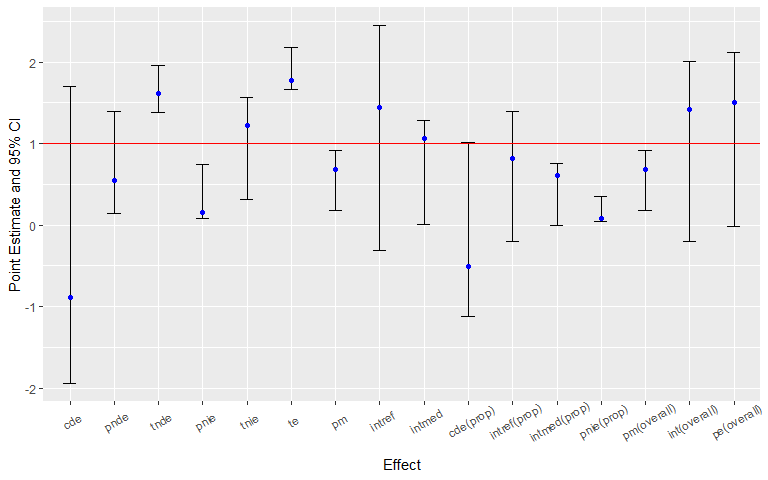
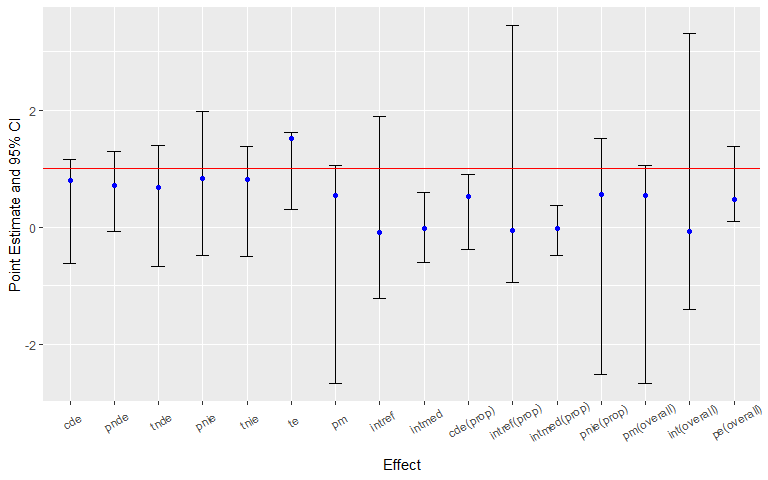
update readme

diff --git a/README.md b/README.md
@@ -1,6 +1,6 @@
 <!-- README.md is generated from README.Rmd. Please edit that file -->
 
-CMAverse <img src="man/figures/logo.png" align="right" width="250" />
+CMAverse <img src="man/figures/logo.png" align="right" width="240" />
 =====================================================================
 
 [![Project Status:
@@ -396,23 +396,23 @@ Summarizing and plotting the results:
     ## Direct counterfactual imputation estimation with 
     ##  bootstrap standard errors, percentile confidence intervals and p-values 
     ##  
-    ##               Estimate Std.error   95% CIL 95% CIU  P.val    
-    ## cde          -0.892591  1.607350 -1.945221   1.697    0.4    
-    ## pnde          0.551437  0.495887  0.142822   1.395 <2e-16 ***
-    ## tnde          1.620366  0.263352  1.386278   1.958 <2e-16 ***
-    ## pnie          0.150942  0.279030  0.084918   0.748 <2e-16 ***
-    ## tnie          1.219870  0.528054  0.313292   1.567 <2e-16 ***
-    ## te            1.771307  0.240348  1.669482   2.174 <2e-16 ***
-    ## pm            0.688683  0.294830  0.174001   0.916 <2e-16 ***
-    ## intref        1.444028  1.193608 -0.311642   2.453    0.4    
-    ## intmed        1.068928  0.543794  0.005043   1.287    0.4    
-    ## cde(prop)    -0.503916  0.940940 -1.120675   1.020    0.4    
-    ## intref(prop)  0.815233  0.681272 -0.200281   1.399    0.4    
-    ## intmed(prop)  0.603469  0.314785 -0.005313   0.756    0.4    
-    ## pnie(prop)    0.085215  0.122840  0.042617   0.346 <2e-16 ***
-    ## pm(overall)   0.688683  0.294830  0.174001   0.916 <2e-16 ***
-    ## int(overall)  1.418702  0.983347 -0.205595   2.002    0.4    
-    ## pe(overall)   1.503916  0.940940 -0.019546   2.121    0.4    
+    ##              Estimate Std.error  95% CIL 95% CIU  P.val    
+    ## cde           0.80413   0.73382 -0.61785   1.157    0.8    
+    ## pnde          0.70722   0.53793 -0.06784   1.287    0.4    
+    ## tnde          0.68375   0.88304 -0.67250   1.394    0.4    
+    ## pnie          0.83501   0.98491 -0.48191   1.973    0.4    
+    ## tnie          0.81154   0.78414 -0.50561   1.373    0.4    
+    ## te            1.51877   0.58754  0.30834   1.623 <2e-16 ***
+    ## pm            0.53434   1.66066 -2.67577   1.052    0.4    
+    ## intref       -0.09691   1.24283 -1.22533   1.889    0.4    
+    ## intmed       -0.02347   0.46997 -0.61097   0.591    0.8    
+    ## cde(prop)     0.52946   0.53487 -0.38092   0.904    0.8    
+    ## intref(prop) -0.06381   1.76493 -0.94241   3.451    0.4    
+    ## intmed(prop) -0.01545   0.33551 -0.48422   0.364    0.8    
+    ## pnie(prop)    0.54980   1.66595 -2.52756   1.517    0.4    
+    ## pm(overall)   0.53434   1.66066 -2.67577   1.052    0.4    
+    ## int(overall) -0.07926   1.85618 -1.40745   3.303    0.4    
+    ## pe(overall)   0.47054   0.53487  0.09615   1.381 <2e-16 ***
     ## ---
     ## Signif. codes:  0 '***' 0.001 '**' 0.01 '*' 0.05 '.' 0.1 ' ' 1
 
@@ -429,13 +429,13 @@ analysis for unmeasured confounding:
     ## Sensitivity Analysis For Unmeasured Confounding 
     ## 
     ## Evalues on the ratio scale: 
-    ##          estRR   lowerRR  upperRR Evalue.estRR Evalue.lowerRR Evalue.upperRR
-    ## cde  0.6938471 0.1914846 2.514164     2.238693             NA              1
-    ## pnde 1.2533325 0.8424961 1.864510     1.816813       1.000000             NA
-    ## tnde 1.9416096 1.5723628 2.397569     3.293733       2.521026             NA
-    ## pnie 1.0637586 0.8507071 1.330167     1.324188       1.000000             NA
-    ## tnie 1.6479298 1.0795697 2.515514     2.681246       1.372659             NA
-    ## te   2.0654039 1.7037187 2.503872     3.548809       2.798679             NA
+    ##         estRR   lowerRR  upperRR Evalue.estRR Evalue.lowerRR Evalue.upperRR
+    ## cde  1.422249 0.7584218 2.667106     2.197196       1.000000             NA
+    ## pnde 1.363138 0.8597480 2.161266     2.066705       1.000000             NA
+    ## tnde 1.349196 0.6331210 2.875167     2.035587       1.000000             NA
+    ## pnie 1.441618 0.6199463 3.352329     2.239519       1.000000             NA
+    ## tnie 1.426874 0.7287807 2.793664     2.207319       1.000000             NA
+    ## te   1.945025 1.1756942 3.217778     3.300790       1.630186             NA
 
 Assume that the continuous pre-exposure confounder was measured with
 error. Sensitivity analysis using regression calibration with a set of
@@ -457,22 +457,22 @@ Summarizing and plotting the results:
     ## 0.1
     ## Measurement error correction for measurement error 1: 
     ##              Estimate Std.error  95% CIL 95% CIU  P.val    
-    ## cde          -0.89920   1.49756 -2.03146   1.510    0.4    
-    ## pnde          0.86165   0.97681 -0.14416   2.273    0.4    
-    ## tnde          1.57740   0.79880  0.41354   2.422 <2e-16 ***
-    ## pnie          0.40305   0.59068 -0.44561   0.983    0.4    
-    ## tnie          1.11880   0.87595 -0.31990   1.920    0.4    
-    ## te            1.98045   0.24452  1.39639   1.976 <2e-16 ***
-    ## pm            0.56492   0.48856 -0.15532   1.073    0.4    
-    ## intref        1.76085   0.91436 -0.16929   1.954    0.8    
-    ## intmed        0.71575   0.61911 -0.06062   1.336    0.8    
-    ## cde(prop)    -0.45404   0.82159 -1.11545   0.772    0.4    
-    ## intref(prop)  0.88911   0.50485 -0.10211   1.070    0.8    
-    ## intmed(prop)  0.36141   0.34085 -0.03617   0.732    0.8    
-    ## pnie(prop)    0.20352   0.36945 -0.22385   0.710    0.4    
-    ## pm(overall)   0.56492   0.48856 -0.15532   1.073    0.4    
-    ## int(overall)  1.25052   0.83305 -0.13827   1.802    0.8    
-    ## pe(overall)   1.45404   0.82159  0.22768   2.115 <2e-16 ***
+    ## cde           0.80377   1.14786 -1.37431   1.379    0.8    
+    ## pnde          0.70159   0.49095 -0.12420   0.870    0.8    
+    ## tnde          0.68130   0.36568 -0.10914   0.710    0.4    
+    ## pnie          0.73328   0.45581  0.48411   1.601 <2e-16 ***
+    ## tnie          0.71299   0.21072  0.99960   1.471 <2e-16 ***
+    ## te            1.41458   0.40044  1.10024   1.891 <2e-16 ***
+    ## pm            0.50403   0.28384  0.53466   1.105 <2e-16 ***
+    ## intref       -0.10218   0.77542 -0.55265   1.264    0.4    
+    ## intmed       -0.02029   0.42736 -0.24391   0.712    0.4    
+    ## cde(prop)     0.56820   0.85582 -1.26212   0.743    0.8    
+    ## intref(prop) -0.07223   0.65333 -0.29748   1.163    0.4    
+    ## intmed(prop) -0.01434   0.36374 -0.13137   0.654    0.4    
+    ## pnie(prop)    0.51837   0.27997  0.40022   1.099 <2e-16 ***
+    ## pm(overall)   0.50403   0.28384  0.53466   1.105 <2e-16 ***
+    ## int(overall) -0.08658   1.01546 -0.42788   1.811    0.4    
+    ## pe(overall)   0.43180   0.85582  0.25739   2.262 <2e-16 ***
     ## ---
     ## Signif. codes:  0 '***' 0.001 '**' 0.01 '*' 0.05 '.' 0.1 ' ' 1
     ## ----------------------------------------------------------------
@@ -480,23 +480,23 @@ Summarizing and plotting the results:
     ## Measurement error 2: 
     ## 0.2
     ## Measurement error correction for measurement error 2: 
-    ##              Estimate Std.error  95% CIL 95% CIU  P.val    
-    ## cde          -0.92052   3.00816  0.18249   7.040 <2e-16 ***
-    ## pnde          0.79412   1.32818  0.41802   3.553 <2e-16 ***
-    ## tnde          1.58422   0.98048  0.27876   2.541 <2e-16 ***
-    ## pnie          0.36262   0.57824  0.01708   1.224 <2e-16 ***
-    ## tnie          1.15271   1.15281 -1.44384   1.109    0.8    
-    ## te            1.94683   0.42780  1.50249   2.559 <2e-16 ***
-    ## pm            0.59210   0.60066 -0.69157   0.727    0.8    
-    ## intref        1.71464   2.00263 -3.51582   1.335    0.8    
-    ## intmed        0.79010   0.89006 -1.47470   0.722    0.8    
-    ## cde(prop)    -0.47283   1.41915  0.08851   3.361 <2e-16 ***
-    ## intref(prop)  0.88074   0.94840 -1.71090   0.525    0.8    
-    ## intmed(prop)  0.40584   0.40952 -0.70617   0.283    0.8    
-    ## pnie(prop)    0.18626   0.38256  0.00689   0.828 <2e-16 ***
-    ## pm(overall)   0.59210   0.60066 -0.69157   0.727    0.8    
-    ## int(overall)  1.28657   1.35192 -2.41680   0.809    0.8    
-    ## pe(overall)   1.47283   1.41915 -2.36058   0.911    0.8    
+    ##               Estimate Std.error   95% CIL 95% CIU  P.val    
+    ## cde           0.802551  1.268665 -0.903947   2.215    0.4    
+    ## pnde          0.705851  0.299651  0.588036   1.196 <2e-16 ***
+    ## tnde          0.685626  0.725188  0.261415   1.973 <2e-16 ***
+    ## pnie          0.734812  0.283179  0.315629   0.970 <2e-16 ***
+    ## tnie          0.714587  0.571365  0.007174   1.452    0.4    
+    ## te            1.420438  0.818509  0.609491   2.638 <2e-16 ***
+    ## pm            0.503075  0.298050 -0.085832   0.584    0.4    
+    ## intref       -0.096700  1.462358 -1.588905   2.062    0.4    
+    ## intmed       -0.020225  0.478300 -0.337675   0.787    0.8    
+    ## cde(prop)     0.565002  1.882148 -0.315987   4.118    0.4    
+    ## intref(prop) -0.068078  1.594538 -3.032114   0.767    0.4    
+    ## intmed(prop) -0.014238  0.372227 -0.629712   0.294    0.8    
+    ## pnie(prop)    0.517314  0.164739  0.254281   0.646 <2e-16 ***
+    ## pm(overall)   0.503075  0.298050 -0.085832   0.584    0.4    
+    ## int(overall) -0.082316  1.960344 -3.661826   1.062    0.8    
+    ## pe(overall)   0.434998  1.882148 -3.117946   1.316    0.4    
     ## ---
     ## Signif. codes:  0 '***' 0.001 '**' 0.01 '*' 0.05 '.' 0.1 ' ' 1
     ## ----------------------------------------------------------------
@@ -504,23 +504,23 @@ Summarizing and plotting the results:
     ## Measurement error 3: 
     ## 0.3
     ## Measurement error correction for measurement error 3: 
-    ##              Estimate Std.error 95% CIL 95% CIU  P.val    
-    ## cde           -0.9621    1.7173 -3.3233   1.038    0.4    
-    ## pnde           0.6655    0.9500 -0.9106   1.348    0.4    
-    ## tnde           1.3903    0.5443  0.3793   1.602 <2e-16 ***
-    ## pnie           0.4351    0.2458  0.2453   0.827 <2e-16 ***
-    ## tnie           1.1599    0.6618  0.6208   2.132 <2e-16 ***
-    ## te             1.8254    0.3779  1.1856   1.996 <2e-16 ***
-    ## pm             0.6354    0.6573  0.3257   1.790 <2e-16 ***
-    ## intref         1.6275    0.8520  0.3101   2.413 <2e-16 ***
-    ## intmed         0.7248    0.4412  0.2272   1.310 <2e-16 ***
-    ## cde(prop)     -0.5271    1.3644 -2.8281   0.516    0.4    
-    ## intref(prop)   0.8916    0.7695  0.1581   2.043 <2e-16 ***
-    ## intmed(prop)   0.3971    0.4177  0.1231   1.099 <2e-16 ***
-    ## pnie(prop)     0.2384    0.2465  0.1640   0.693 <2e-16 ***
-    ## pm(overall)    0.6354    0.6573  0.3257   1.790 <2e-16 ***
-    ## int(overall)   1.2887    1.1512  0.2832   3.141 <2e-16 ***
-    ## pe(overall)    1.5271    1.3644  0.4838   3.828 <2e-16 ***
+    ##              Estimate Std.error  95% CIL 95% CIU  P.val    
+    ## cde           0.80005   1.14487 -0.19958   2.621    0.4    
+    ## pnde          0.69645   0.55435 -0.01735   1.348    0.4    
+    ## tnde          0.67822   0.44751 -0.03591   1.104    0.4    
+    ## pnie          0.66865   0.22635  0.78291   1.346 <2e-16 ***
+    ## tnie          0.65042   0.24925  0.60496   1.133 <2e-16 ***
+    ## te            1.34687   0.54316  1.06603   2.430 <2e-16 ***
+    ## pm            0.48291   0.29713  0.36568   1.044 <2e-16 ***
+    ## intref       -0.10360   0.71819 -1.56892   0.182    0.4    
+    ## intmed       -0.01823   0.18651 -0.44207   0.001    0.4    
+    ## cde(prop)     0.59401   0.71960 -0.23518   1.561    0.4    
+    ## intref(prop) -0.07692   0.46222 -0.93461   0.199    0.4    
+    ## intmed(prop) -0.01353   0.11180 -0.26333   0.004    0.4    
+    ## pnie(prop)    0.49645   0.23130  0.52705   1.054 <2e-16 ***
+    ## pm(overall)   0.48291   0.29713  0.36568   1.044 <2e-16 ***
+    ## int(overall) -0.09045   0.57178 -1.19794   0.199    0.4    
+    ## pe(overall)   0.40599   0.71960 -0.56141   1.235    0.8    
     ## ---
     ## Signif. codes:  0 '***' 0.001 '**' 0.01 '*' 0.05 '.' 0.1 ' ' 1
     ## ----------------------------------------------------------------
@@ -553,23 +553,23 @@ Summarizing and plotting the results:
     ## [2,] 0.05 0.95
     ## 
     ## Measurement error correction for measurement error 1: 
-    ##              Estimate Std.error 95% CIL 95% CIU  P.val    
-    ## cde           -2.1015    1.8922 -4.1193   0.283    0.4    
-    ## pnde           0.3371    0.5456  0.3142   1.550 <2e-16 ***
-    ## tnde           1.3548    1.1370  1.0611   3.874 <2e-16 ***
-    ## pnie           0.4395    1.0075 -1.8225   0.553    0.4    
-    ## tnie           1.4573    0.8097 -0.3901   1.639    0.4    
-    ## te             1.7944    0.6348  0.9798   2.353 <2e-16 ***
-    ## pm             0.8121    0.4923 -0.4160   0.823    0.4    
-    ## intref         2.4386    1.7419  1.0562   5.441 <2e-16 ***
-    ## intmed         1.0177    1.1526 -0.3659   2.415    0.4    
-    ## cde(prop)     -1.1711    1.6980 -4.0771   0.112    0.4    
-    ## intref(prop)   1.3590    2.0469  0.4590   5.487 <2e-16 ***
-    ## intmed(prop)   0.5672    0.7479 -0.4068   1.314    0.4    
-    ## pnie(prop)     0.2449    0.5699 -0.9852   0.233    0.4    
-    ## pm(overall)    0.8121    0.4923 -0.4160   0.823    0.4    
-    ## int(overall)   1.9262    1.7856  0.7426   5.195 <2e-16 ***
-    ## pe(overall)    2.1711    1.6980  0.8875   5.077 <2e-16 ***
+    ##              Estimate Std.error  95% CIL 95% CIU  P.val    
+    ## cde           1.33888   1.52743 -1.22177   2.341    0.8    
+    ## pnde          0.81673   0.44984  0.48773   1.512 <2e-16 ***
+    ## tnde          0.64440   0.98462 -0.91540   1.522    0.4    
+    ## pnie          1.15701   1.29731 -0.21812   2.794    0.4    
+    ## tnie          0.98468   0.71591 -0.42929   1.378    0.4    
+    ## te            1.80141   0.69733  0.48120   1.992 <2e-16 ***
+    ## pm            0.54662   0.73266 -0.98881   0.707    0.4    
+    ## intref       -0.52215   1.87285 -1.79629   2.734    0.8    
+    ## intmed       -0.17233   0.74630 -1.47008   0.289    0.8    
+    ## cde(prop)     0.74324   1.39988 -2.16163   1.220    0.8    
+    ## intref(prop) -0.28985   2.09371 -0.90692   4.150    0.8    
+    ## intmed(prop) -0.09566   0.40901 -0.77440   0.205    0.8    
+    ## pnie(prop)    0.64228   0.77317 -0.54420   1.428    0.4    
+    ## pm(overall)   0.54662   0.73266 -0.98881   0.707    0.4    
+    ## int(overall) -0.38552   2.14016 -1.64839   3.706    0.8    
+    ## pe(overall)   0.25676   1.39988 -0.22017   3.162    0.4    
     ## ---
     ## Signif. codes:  0 '***' 0.001 '**' 0.01 '*' 0.05 '.' 0.1 ' ' 1
     ## ----------------------------------------------------------------
@@ -581,22 +581,22 @@ Summarizing and plotting the results:
     ## 
     ## Measurement error correction for measurement error 2: 
     ##              Estimate Std.error  95% CIL 95% CIU  P.val    
-    ## cde          -1.18161   2.36527 -3.13756   1.922    0.8    
-    ## pnde          1.06178   1.56577 -1.10885   2.428    0.4    
-    ## tnde          2.76304   0.85003  0.91367   3.059 <2e-16 ***
-    ## pnie         -0.31918   0.80462 -0.47918   1.533    0.4    
-    ## tnie          1.38208   1.55881  0.13399   3.557 <2e-16 ***
-    ## te            2.44386   0.30741  2.03274   2.805 <2e-16 ***
-    ## pm            0.56553   0.63835  0.05346   1.453 <2e-16 ***
-    ## intref        2.24338   0.91534  0.50545   2.573 <2e-16 ***
-    ## intmed        1.70127   0.87836  0.15808   2.024 <2e-16 ***
-    ## cde(prop)    -0.48350   0.94243 -1.28185   0.736    0.8    
-    ## intref(prop)  0.91797   0.38278  0.19292   1.042 <2e-16 ***
-    ## intmed(prop)  0.69614   0.35930  0.07472   0.827 <2e-16 ***
-    ## pnie(prop)   -0.13061   0.32534 -0.18446   0.627    0.4    
-    ## pm(overall)   0.56553   0.63835  0.05346   1.453 <2e-16 ***
-    ## int(overall)  1.61410   0.68937  0.33191   1.791 <2e-16 ***
-    ## pe(overall)   1.48350   0.94243  0.26418   2.282 <2e-16 ***
+    ## cde           0.39350   2.67436  0.20081   6.317 <2e-16 ***
+    ## pnde          0.77270   1.08699  0.97477   3.581 <2e-16 ***
+    ## tnde          0.83216   0.40925  1.09049   1.980 <2e-16 ***
+    ## pnie          0.88053   0.74546 -0.23201   1.664    0.4    
+    ## tnie          0.93999   1.24321 -1.36402   1.737    0.4    
+    ## te            1.71269   0.80990  1.68195   3.608 <2e-16 ***
+    ## pm            0.54884   0.49813 -0.62530   0.504    0.4    
+    ## intref        0.37920   1.63235 -2.73603   1.040    0.8    
+    ## intmed        0.05946   1.06251 -1.89029   0.647    0.8    
+    ## cde(prop)     0.22975   1.23243  0.11763   2.871 <2e-16 ***
+    ## intref(prop)  0.22140   0.77138 -1.24603   0.618    0.8    
+    ## intmed(prop)  0.03472   0.51099 -0.86347   0.390    0.8    
+    ## pnie(prop)    0.51412   0.26821 -0.15006   0.468    0.4    
+    ## pm(overall)   0.54884   0.49813 -0.62530   0.504    0.4    
+    ## int(overall)  0.25612   1.27414 -2.10949   1.008    0.8    
+    ## pe(overall)   0.77025   1.23243 -1.87133   0.882    0.8    
     ## ---
     ## Signif. codes:  0 '***' 0.001 '**' 0.01 '*' 0.05 '.' 0.1 ' ' 1
     ## ----------------------------------------------------------------
